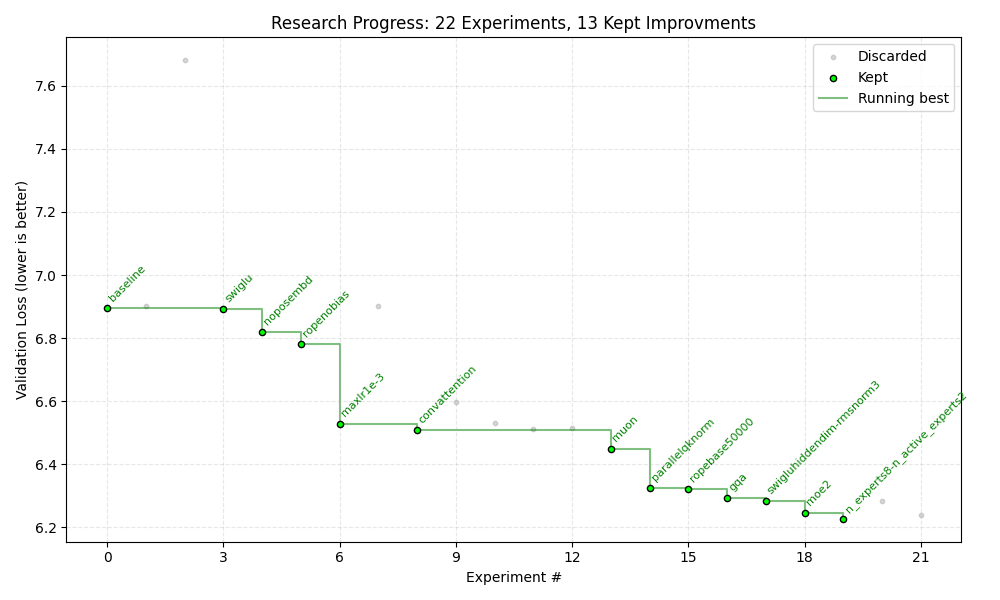
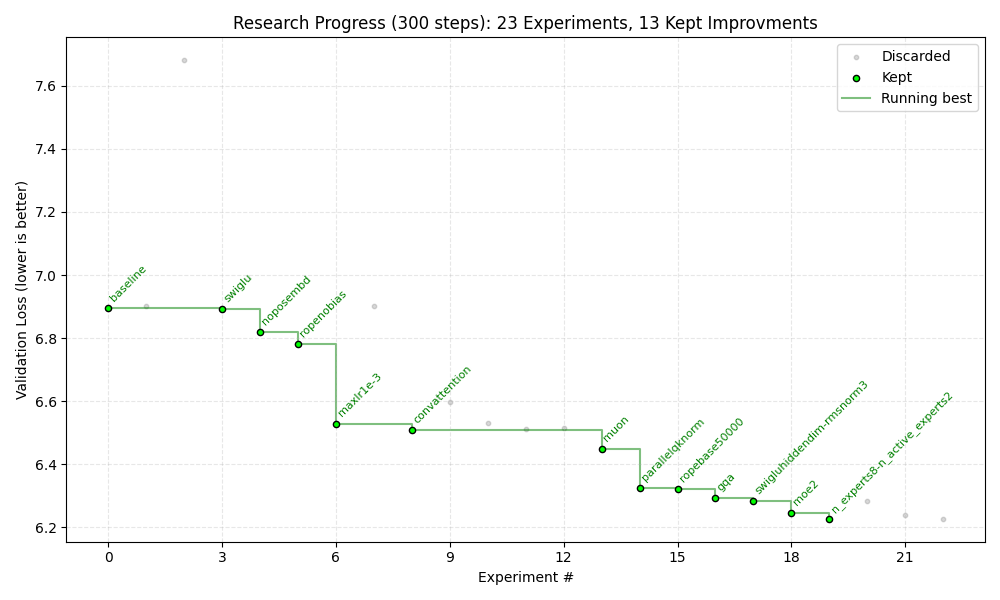
long experiment support

diff --git a/plot.py b/plot.py
@@ -3,38 +3,82 @@ import matplotlib.pyplot as plt
 from matplotlib.ticker import MaxNLocator, FormatStrFormatter
 import os
 
-experiments = []
-if os.path.exists("experiments.jsonl"):
-    with open("experiments.jsonl") as f:
-        for line in f:
-            experiments.append(json.loads(line))
 
-if not experiments:
-    print("no experiments yet")
-else:
+def plot_experiments(jsonl_file, output_file, title_prefix):
+    """Plot experiments from a JSONL file."""
+    experiments = []
+    if os.path.exists(jsonl_file):
+        with open(jsonl_file) as f:
+            for line in f:
+                line = line.strip()
+                if line:
+                    experiments.append(json.loads(line))
+
+    if not experiments:
+        print(f"no experiments yet in {jsonl_file}")
+        return False
+
     ids = [e["id"] for e in experiments]
     losses = [e["val_loss"] for e in experiments]
     kept = [e for e in experiments if e["kept"]]
     fig, ax = plt.subplots(figsize=(10, 6))
-    ax.scatter(ids, losses, color="gray", alpha=0.3, label="Discarded", s=10) 
+    ax.scatter(ids, losses, color="gray", alpha=0.3, label="Discarded", s=10)
     if kept:
         kept_ids = [e["id"] for e in kept]
         kept_losses = [e["val_loss"] for e in kept]
-        ax.scatter(kept_ids, kept_losses, color="lime", edgecolors="black", label="Kept", s=20, zorder=2)
-        ax.step(kept_ids, kept_losses, color="green", where='post', alpha=0.5, zorder=1, label="Running best")
+        ax.scatter(
+            kept_ids,
+            kept_losses,
+            color="lime",
+            edgecolors="black",
+            label="Kept",
+            s=20,
+            zorder=2,
+        )
+        ax.step(
+            kept_ids,
+            kept_losses,
+            color="green",
+            where="post",
+            alpha=0.5,
+            zorder=1,
+            label="Running best",
+        )
         for e in kept:
-            ax.annotate(e["name"], (e["id"], e["val_loss"]), 
-                        textcoords="offset points", xytext=(0, 5),
-                        fontsize=8, rotation=45, ha='left', 
-                        color="green", fontweight='normal')
-            
+            ax.annotate(
+                e["name"],
+                (e["id"], e["val_loss"]),
+                textcoords="offset points",
+                xytext=(0, 5),
+                fontsize=8,
+                rotation=45,
+                ha="left",
+                color="green",
+                fontweight="normal",
+            )
+
     ax.xaxis.set_major_locator(MaxNLocator(integer=True))
     ax.set_xlabel("Experiment #")
     ax.set_ylabel("Validation Loss (lower is better)")
-    ax.set_title(f"Research Progress: {len(experiments)} Experiments, {len(kept)} Kept Improvments")
+    ax.set_title(
+        f"{title_prefix}: {len(experiments)} Experiments, {len(kept)} Kept Improvments"
+    )
     ax.legend()
-    ax.grid(True, which='both', axis='y', linestyle='--', alpha=0.3)
-    ax.grid(True, which='both', axis='x', linestyle='--', alpha=0.3)
+    ax.grid(True, which="both", axis="y", linestyle="--", alpha=0.3)
+    ax.grid(True, which="both", axis="x", linestyle="--", alpha=0.3)
     plt.tight_layout()
-    plt.savefig("experiments.png")
-    print("saved experiments.png")
+    plt.savefig(output_file)
+    print(f"saved {output_file}")
+    plt.close()
+    return True
+
+
+# Plot regular experiments (300 steps)
+plot_experiments(
+    "experiments.jsonl", "experiments.png", "Research Progress (300 steps)"
+)
+
+# Plot long experiments (600 steps)
+plot_experiments(
+    "experiments_long.jsonl", "experiments_long.png", "Research Progress (600 steps)"
+)

diff --git a/train.py b/train.py
@@ -23,10 +23,15 @@ parser.add_argument("-w", "--wandb", default=None)
 parser.add_argument("-c", "--cache", default="data_cache")
 parser.add_argument("-r", "--resume", default=None)
 parser.add_argument("-e", "--experiment", default=None)
+parser.add_argument("-el", "--experimentlong", default=None)
 args = parser.parse_args()
 
+if args.experimentlong is not None and args.experiment is not None:
+    print("can't mix long and short experiment arguments. sorry")
+    os.exit()
+
 # manual seed for experimentation only!
-if args.experiment is not None:
+if args.experiment is not None or args.experimentlong is not None:
     torch.manual_seed(42)
 
 # Setup DDP
@@ -238,6 +243,20 @@ if master_process:
             f.write("\n" + json.dumps(result))
         print(
             f"logged experiment '{args.experiment}' with val loss {val_loss_accum.item():.4f}"
+        )
+    elif args.experimentlong:
+        result = {
+            "id": len(open("experiments_long.jsonl").readlines())
+            if os.path.exists("experiments_long.jsonl")
+            else 0,
+            "name": args.experimentlong,
+            "val_loss": val_loss_accum.item(),
+            "kept": None,  # filled in manually later
+        }
+        with open("experiments_long.jsonl", "a") as f:
+            f.write("\n" + json.dumps(result))
+        print(
+            f"logged experimentlong '{args.experimentlong}' with val loss {val_loss_accum.item():.4f}"
         )
 
 

diff --git a/README.md b/README.md
@@ -24,6 +24,8 @@ I am trying to improve the architecture over time with experiments. At the time 
 
 ## experiments
 
-I am running experiments on this repository to try and improve the architecture/hyperparameters. The experiments are done by making a change to the codebase and then running `experiment.sh` which does a training run with `steps=300` and `depth=4` on 2 shards of the [HuggingFaceFW/fineweb-edu](https://huggingface.co/datasets/HuggingFaceFW/fineweb-edu) dataset. When the experiment is done it is logged into the `experiments.jsonl` file and `plot.py` is run to regenerate the graph below. The results of the experiments are kept in the repo going forward if validation loss dropped compared to the previous best validation loss.
+I am running experiments on this repository to try and improve the architecture/hyperparameters. The experiments are done by making a change to the codebase and then running `experiment.sh` which does a training run with `steps=300` (or `steps=600` for long experiments) and `depth=4` on 2 shards of the [HuggingFaceFW/fineweb-edu](https://huggingface.co/datasets/HuggingFaceFW/fineweb-edu) dataset. When the experiment is done it is logged into the `experiments.jsonl` (or `experiments_long.jsonl` for long experiments) file and `plot.py` is run to regenerate the graphs below. The results of the experiments are kept in the repo going forward if validation loss dropped compared to the previous best validation loss. If the validation loss doesn't show any drop in the short experiment run then sometimes I don't discard it but instead do a long experiment run. I don't always do a long experiment run. Long experiments were added later as such `baseline` in short experiments is not equal to `baseline` in long experiments.
 
 ![experiments graph](experiments.png)
+
+![long experiments graph](experiments_long.png)
